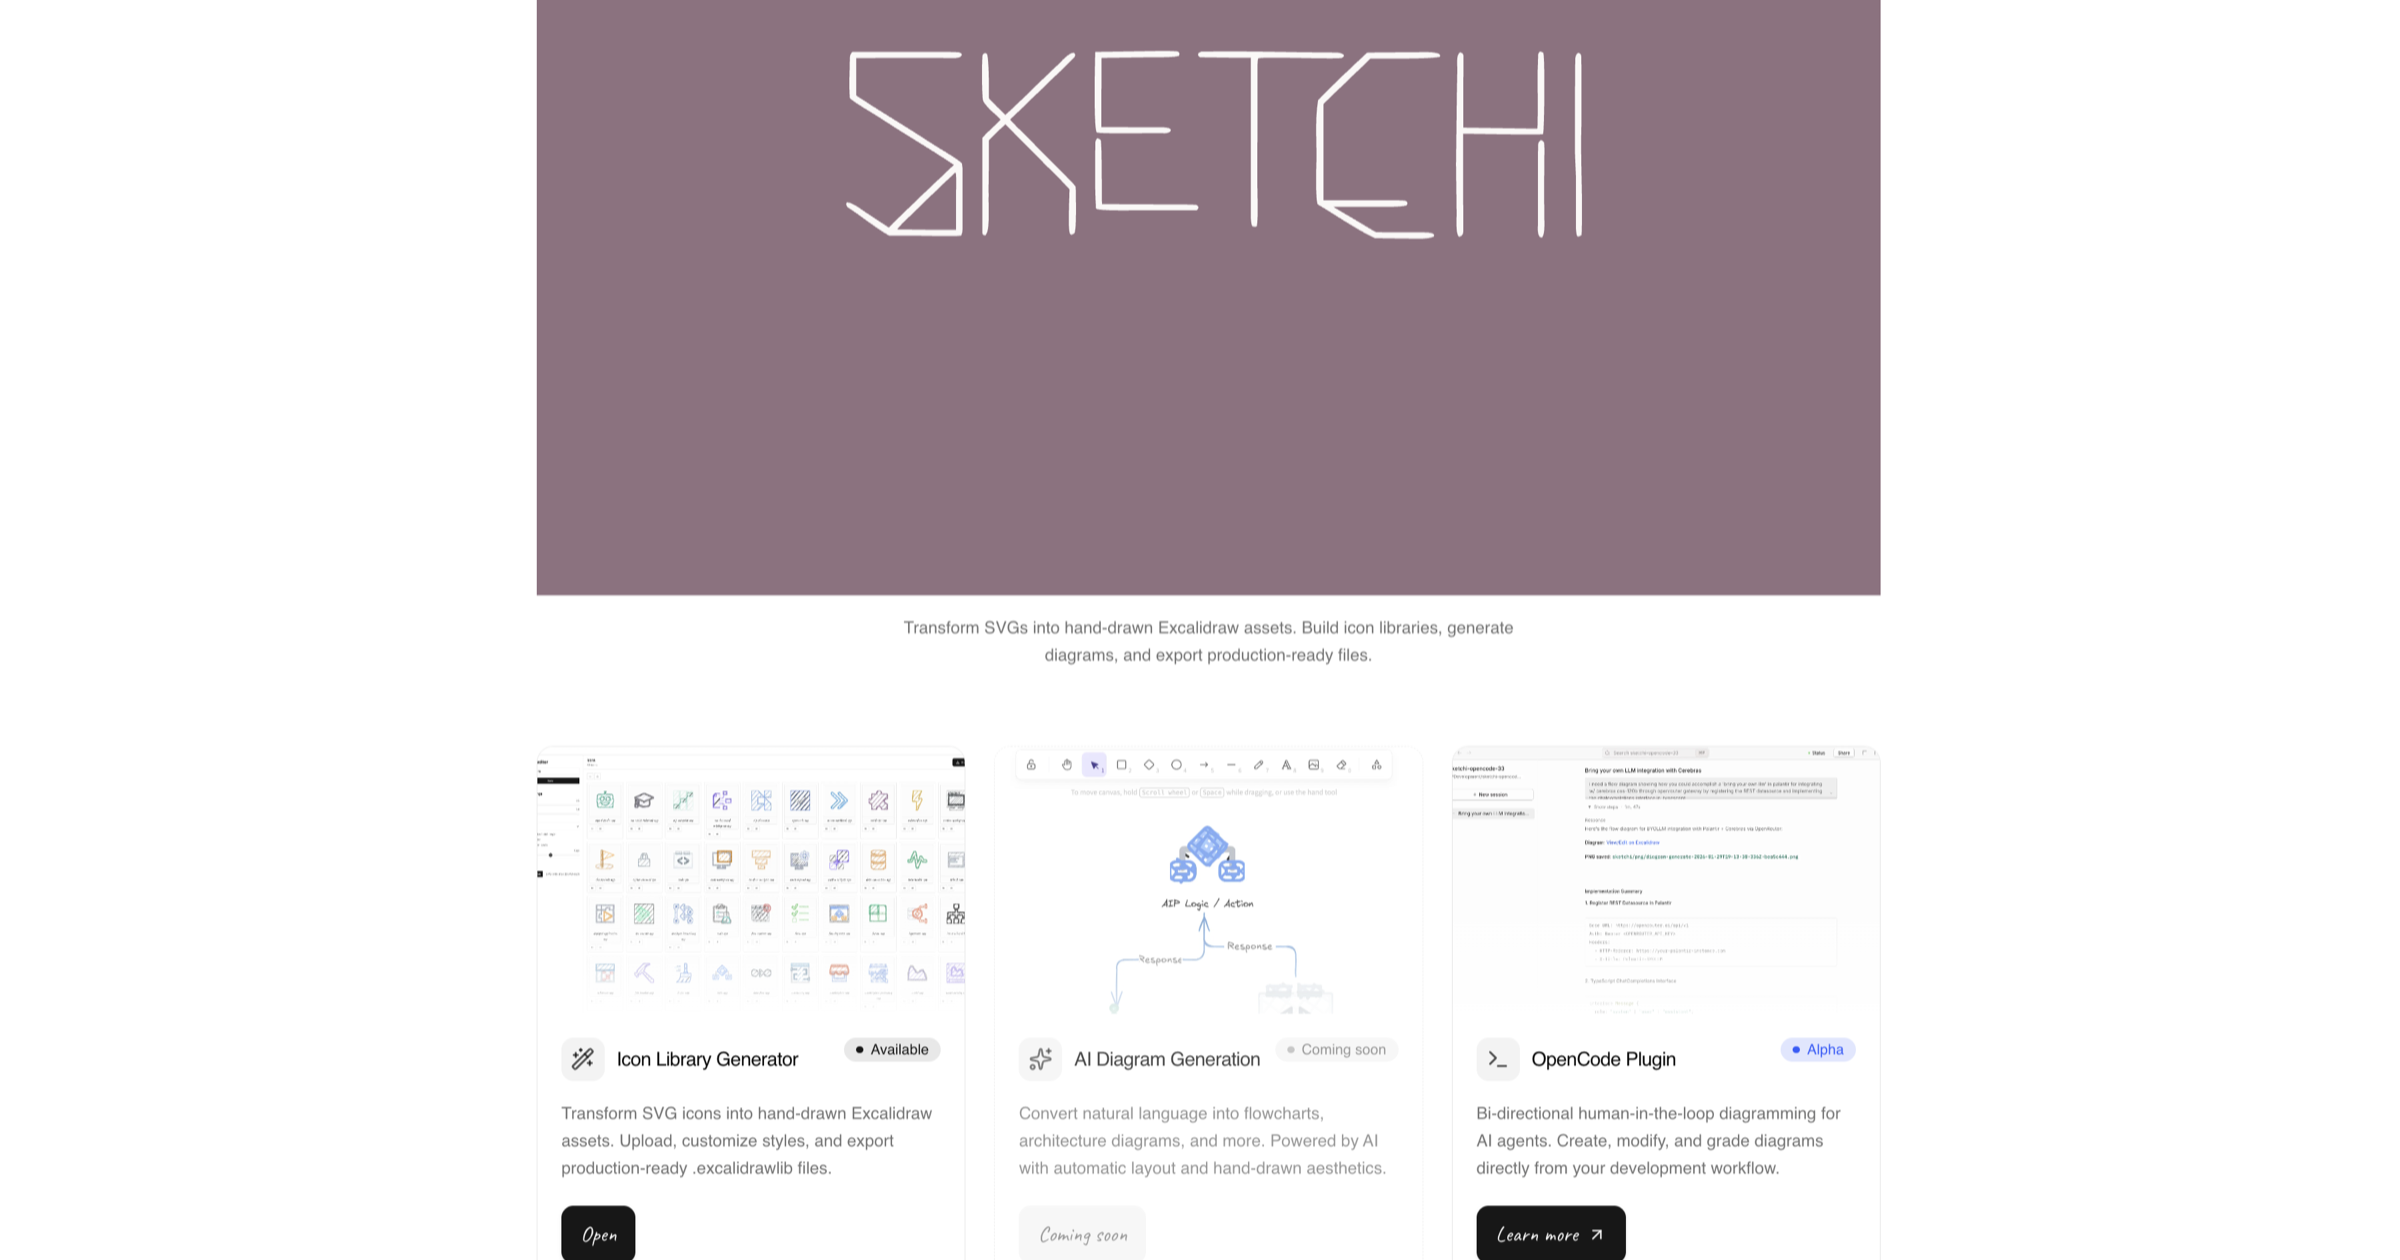
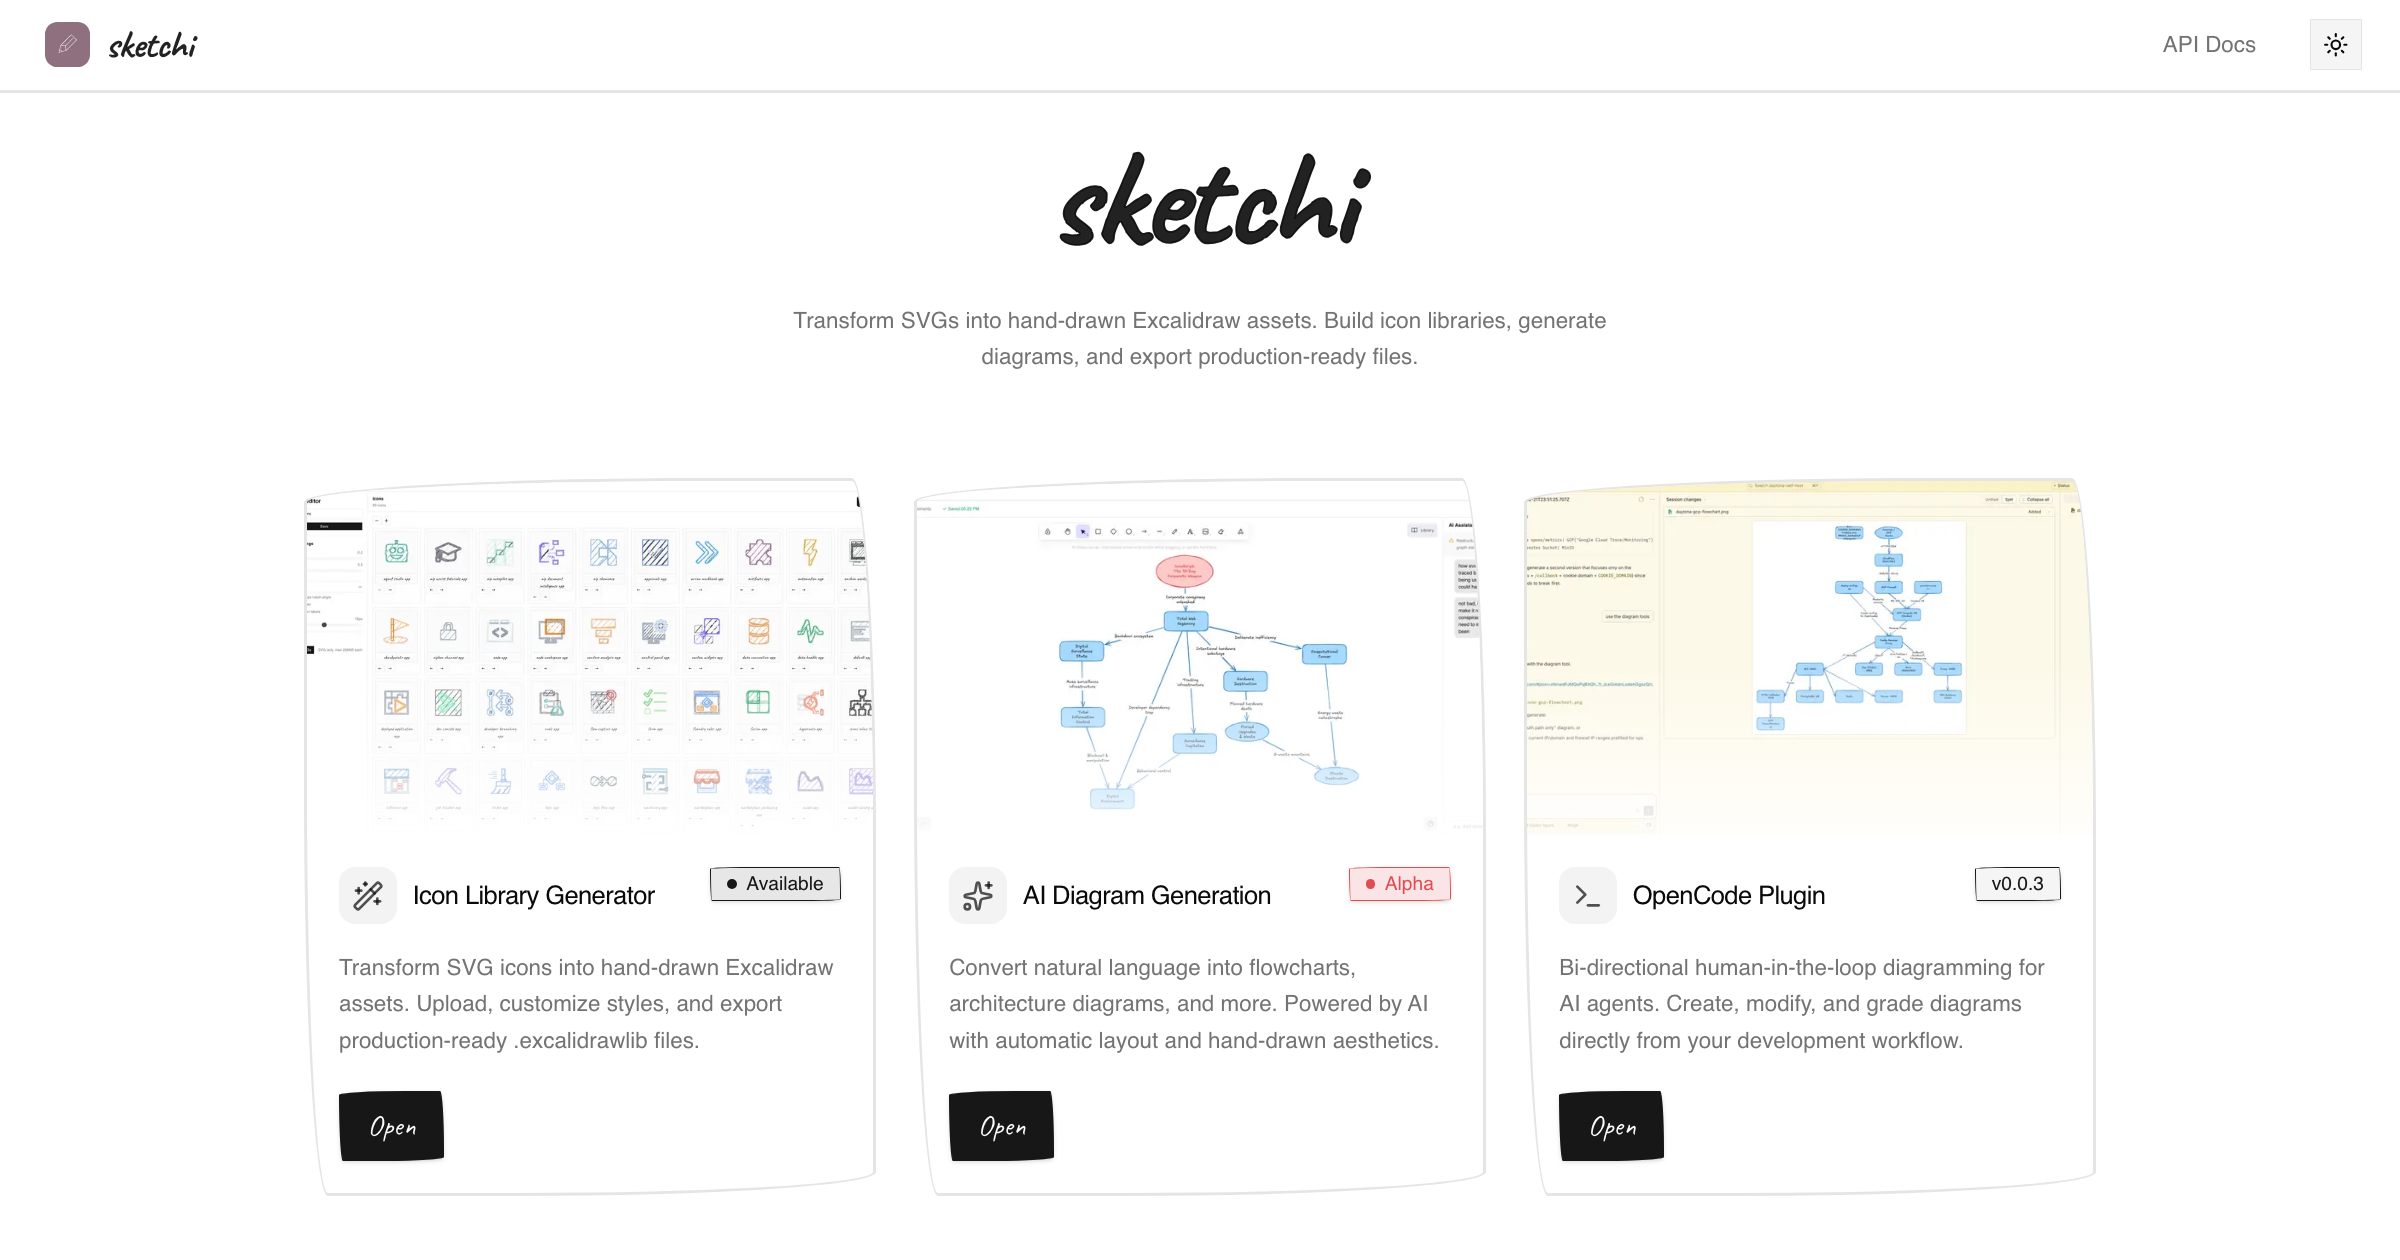
feat: refresh OpenGraph + conditional Sketchi diagram steering (#149)
* docs: align opencode config key to plugin

* chore: refresh opengraph images from prod

* feat: conditionally inject sketchi diagram routing hints

diff --git a/packages/opencode-excalidraw/src/index.test.ts b/packages/opencode-excalidraw/src/index.test.ts
@@ -20,28 +20,51 @@ function createPluginInput() {
 }
 
 describe("SketchiPlugin", () => {
-  test("injects sketchi-diagram routing system hints", async () => {
+  test("injects sketchi-diagram routing system hints for diagram requests", async () => {
     const plugin = await SketchiPlugin(createPluginInput());
-    const transform = plugin["experimental.chat.system.transform"];
+    const chatMessageHook = plugin["chat.message"];
 
-    expect(typeof transform).toBe("function");
+    expect(typeof chatMessageHook).toBe("function");
 
-    const output = { system: [] as string[] };
-    await transform?.(
+    const output = {
+      message: { system: undefined } as { system?: string },
+      parts: [{ type: "text", text: "Please create an excalidraw diagram." }],
+    };
+
+    await chatMessageHook?.(
       {
         sessionID: "session-1",
-        model: {
-          providerID: "provider",
-          modelID: "model",
-        } as never,
+        messageID: "message-1",
       },
       output
     );
 
-    const combined = output.system.join("\n").toLowerCase();
+    const combined = (output.message.system ?? "").toLowerCase();
     expect(combined).toContain("sketchi-diagram subagent");
     expect(combined).toContain("delegate to sketchi-diagram");
     expect(combined).toContain("instead of writing mermaid");
+  });
+
+  test("does not inject sketchi-diagram routing hints for unrelated requests", async () => {
+    const plugin = await SketchiPlugin(createPluginInput());
+    const chatMessageHook = plugin["chat.message"];
+
+    expect(typeof chatMessageHook).toBe("function");
+
+    const output = {
+      message: { system: undefined } as { system?: string },
+      parts: [{ type: "text", text: "What tools are available for git?" }],
+    };
+
+    await chatMessageHook?.(
+      {
+        sessionID: "session-1",
+        messageID: "message-2",
+      },
+      output
+    );
+
+    expect(output.message.system).toBeUndefined();
   });
 
   test("registers sketchi-diagram subagent via config hook", async () => {

diff --git a/packages/opencode-excalidraw/src/index.ts b/packages/opencode-excalidraw/src/index.ts
@@ -1,7 +1,10 @@
 import { type Plugin, tool } from "@opencode-ai/plugin";
 
 import { applySketchiDiagramAgentConfig } from "./lib/agent-config";
-import { appendSketchiDiagramSystemHints } from "./lib/agent-hints";
+import {
+  appendSketchiDiagramSystemPrompt,
+  shouldInjectSketchiDiagramSystemHints,
+} from "./lib/agent-hints";
 import { fetchJson, shareElements } from "./lib/api";
 import { extractShareLink, readExcalidrawFile } from "./lib/excalidraw";
 import { gradeDiagram } from "./lib/grade";
@@ -15,6 +18,18 @@ const TRAILING_SLASH_PATTERN = /\/$/;
 
 function normalizeApiBase(value: string): string {
   return value.replace(TRAILING_SLASH_PATTERN, "");
+}
+
+function extractMessageText(
+  parts: Array<{ type: string; text?: string }>
+): string {
+  const textParts: string[] = [];
+  for (const part of parts) {
+    if (part.type === "text" && part.text) {
+      textParts.push(part.text);
+    }
+  }
+  return textParts.join("\n");
 }
 
 export const SketchiPlugin: Plugin = (input) => {
@@ -615,8 +630,20 @@ export const SketchiPlugin: Plugin = (input) => {
       applySketchiDiagramAgentConfig(config);
       return Promise.resolve();
     },
-    "experimental.chat.system.transform": (_input, output) =>
-      Promise.resolve(appendSketchiDiagramSystemHints(output.system)),
+    "chat.message": (_input, output) => {
+      const messageText = extractMessageText(
+        output.parts as Array<{ type: string; text?: string }>
+      );
+
+      if (!shouldInjectSketchiDiagramSystemHints(messageText)) {
+        return Promise.resolve();
+      }
+
+      output.message.system = appendSketchiDiagramSystemPrompt(
+        output.message.system
+      );
+      return Promise.resolve();
+    },
   });
 };
 

diff --git a/packages/opencode-excalidraw/src/lib/agent-hints.ts b/packages/opencode-excalidraw/src/lib/agent-hints.ts
@@ -15,6 +15,7 @@ const SKETCHI_DIAGRAM_SYSTEM_HINTS = [
   "Only produce Mermaid when the user explicitly asks for Mermaid output.",
 ] as const;
 
+const DIAGRAM_REQUEST_PATTERN = /\b(diagram|sketchi|excalidraw)\b/iu;
 const NEWLINE_PATTERN = /\r?\n/u;
 
 function appendUniqueLines(lines: string[], hints: readonly string[]): void {
@@ -25,8 +26,8 @@ function appendUniqueLines(lines: string[], hints: readonly string[]): void {
   }
 }
 
-function splitPromptLines(prompt: string): string[] {
-  return prompt
+function splitLines(input: string): string[] {
+  return input
     .split(NEWLINE_PATTERN)
     .map((line) => line.trim())
     .filter((line) => line.length > 0);
@@ -37,7 +38,7 @@ export function getSketchiDiagramAgentHints(): string[] {
 }
 
 export function appendSketchiDiagramAgentPrompt(prompt?: string): string {
-  const lines = prompt ? splitPromptLines(prompt) : [];
+  const lines = prompt ? splitLines(prompt) : [];
   appendUniqueLines(lines, SKETCHI_DIAGRAM_AGENT_HINTS);
   return lines.join("\n");
 }
@@ -48,4 +49,14 @@ export function getSketchiDiagramSystemHints(): string[] {
 
 export function appendSketchiDiagramSystemHints(system: string[]): void {
   appendUniqueLines(system, SKETCHI_DIAGRAM_SYSTEM_HINTS);
+}
+
+export function appendSketchiDiagramSystemPrompt(system?: string): string {
+  const lines = system ? splitLines(system) : [];
+  appendUniqueLines(lines, SKETCHI_DIAGRAM_SYSTEM_HINTS);
+  return lines.join("\n");
+}
+
+export function shouldInjectSketchiDiagramSystemHints(text: string): boolean {
+  return DIAGRAM_REQUEST_PATTERN.test(text);
 }

diff --git a/packages/opencode-excalidraw/src/lib/agent-hints.test.ts b/packages/opencode-excalidraw/src/lib/agent-hints.test.ts
@@ -3,7 +3,9 @@ import { describe, expect, test } from "bun:test";
 import {
   appendSketchiDiagramAgentPrompt,
   appendSketchiDiagramSystemHints,
+  appendSketchiDiagramSystemPrompt,
   getSketchiDiagramAgentHints,
+  shouldInjectSketchiDiagramSystemHints,
 } from "./agent-hints";
 
 describe("sketchi-diagram hints", () => {
@@ -42,6 +44,31 @@ describe("sketchi-diagram hints", () => {
     );
     expect(withHintsAgain.toLowerCase()).toContain(
       "instead of writing mermaid"
+    );
+  });
+
+  test("system prompt append merges custom system prompt without duplicates", () => {
+    const initialSystem = "Follow the user's tone.";
+    const withHints = appendSketchiDiagramSystemPrompt(initialSystem);
+    const withHintsAgain = appendSketchiDiagramSystemPrompt(withHints);
+
+    expect(withHintsAgain).toBe(withHints);
+    expect(withHintsAgain).toContain(initialSystem);
+    expect(withHintsAgain.toLowerCase()).toContain("sketchi-diagram subagent");
+  });
+
+  test("diagram system hints trigger only for configured keywords", () => {
+    expect(
+      shouldInjectSketchiDiagramSystemHints("please generate a diagram")
+    ).toBe(true);
+    expect(shouldInjectSketchiDiagramSystemHints("use sketchi tools")).toBe(
+      true
+    );
+    expect(
+      shouldInjectSketchiDiagramSystemHints("edit this in excalidraw")
+    ).toBe(true);
+    expect(shouldInjectSketchiDiagramSystemHints("show git status")).toBe(
+      false
     );
   });
 });

diff --git a/apps/web/src/app/layout.tsx b/apps/web/src/app/layout.tsx
@@ -23,7 +23,10 @@ const caveat = Caveat({
 });
 
 const siteUrl = "https://sketchi.app";
-const ogImage = "/og-image.png";
+const ogImageLight = "/og-image.png";
+const ogImageDark = "/og-image-dark.png";
+const ogImageWidth = 2400;
+const ogImageHeight = 1260;
 const description =
   "Sketchi is a diagram and icon library toolkit that transforms SVGs into hand-drawn Excalidraw assets. Build icon libraries, generate AI-powered diagrams, and export production-ready .excalidrawlib files.";
 
@@ -39,10 +42,16 @@ export const metadata: Metadata = {
     type: "website",
     images: [
       {
-        url: ogImage,
-        width: 1280,
-        height: 800,
-        alt: "Sketchi Home",
+        url: ogImageLight,
+        width: ogImageWidth,
+        height: ogImageHeight,
+        alt: "Sketchi home page (light mode)",
+      },
+      {
+        url: ogImageDark,
+        width: ogImageWidth,
+        height: ogImageHeight,
+        alt: "Sketchi home page (dark mode)",
       },
     ],
   },
@@ -50,7 +59,7 @@ export const metadata: Metadata = {
     card: "summary_large_image",
     title: "Sketchi",
     description,
-    images: [ogImage],
+    images: [ogImageLight],
   },
 };
 

diff --git a/apps/web/src/app/opencode/page.tsx b/apps/web/src/app/opencode/page.tsx
@@ -237,7 +237,7 @@ export default function OpenCodeDocsPage() {
 
   const fullJsonConfig = `{
   "$schema": "https://opencode.ai/config.json",
-  "plugins": [
+  "plugin": [
     "@sketchi-app/opencode-excalidraw@${version}"
   ]
 }`;
@@ -377,7 +377,7 @@ export default function OpenCodeDocsPage() {
                     {'"https://opencode.ai/config.json"'}
                   </span>
                   <span className="text-zinc-300">{",\n"}</span>
-                  <span className="text-[#9cdcfe]">{'  "plugins"'}</span>
+                  <span className="text-[#9cdcfe]">{'  "plugin"'}</span>
                   <span className="text-zinc-300">{": [\n"}</span>
                   <span className="text-[#ce9178]">{typedPlugin}</span>
                   {typedPlugin.length < pluginLine.length && (

diff --git a/packages/opencode-excalidraw/README.md b/packages/opencode-excalidraw/README.md
@@ -8,7 +8,7 @@ OpenCode plugin for generating and manipulating Excalidraw diagrams via Sketchi.
 
 ```jsonc
 {
-  "plugins": ["@sketchi-app/opencode-excalidraw"]
+  "plugin": ["@sketchi-app/opencode-excalidraw"]
 }
 ```
 
@@ -34,7 +34,7 @@ The plugin exposes tools:
 - `diagram_to_png`
 - `diagram_grade`
 
-When this plugin is loaded, it registers a `sketchi-diagram` subagent (without disabling built-in `build`/`plan`) and injects routing guidance so diagram requests route to `diagram_*` tools instead of defaulting to Mermaid (unless Mermaid is explicitly requested).
+When this plugin is loaded, it registers a `sketchi-diagram` subagent (without disabling built-in `build`/`plan`) and conditionally injects routing guidance only when the user request mentions `diagram`, `sketchi`, or `excalidraw`, so diagram requests route to `diagram_*` tools instead of defaulting to Mermaid (unless Mermaid is explicitly requested).
 
 ## Configuration
 

diff --git a/README.md b/README.md
@@ -195,7 +195,7 @@ npm i @sketchi-app/opencode-excalidraw
 - Add to `opencode.json`:
 ```json
 {
-  "plugins": ["@sketchi-app/opencode-excalidraw"]
+  "plugin": ["@sketchi-app/opencode-excalidraw"]
 }
 ```
 
